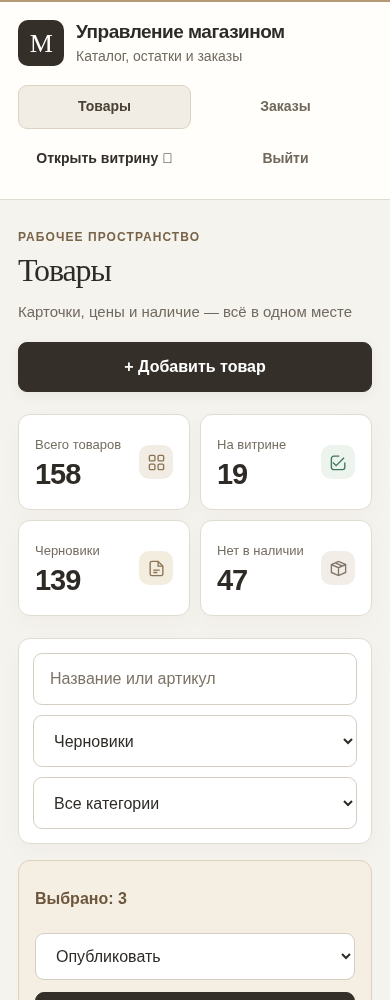
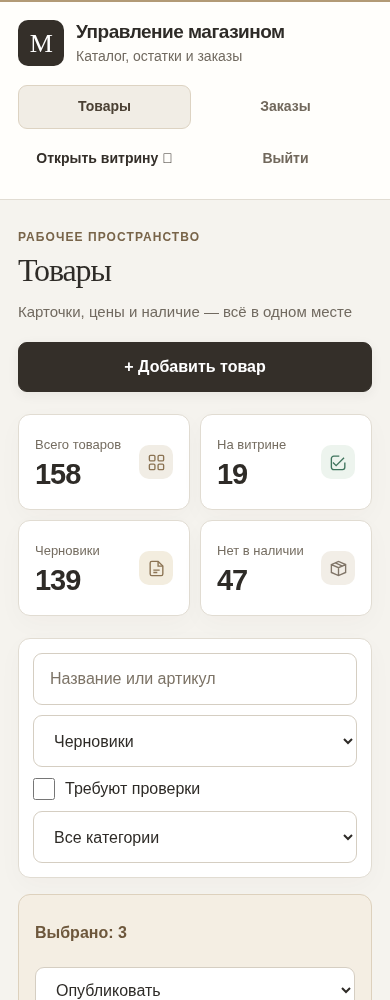
Add bulk categories and price preview, review filter and product copies

Changed region(s): [[0.0308, 0.775, 0.9538, 1.0], [0.0615, 0.775, 0.0923, 0.806]]

diff --git a/admin/app.js b/admin/app.js
@@ -2,7 +2,7 @@ const app=document.querySelector('#admin-app');
 const esc=value=>String(value??'').replace(/[&<>"']/g,c=>({'&':'&amp;','<':'&lt;','>':'&gt;','"':'&quot;',"'":'&#39;'}[c]));
 const money=value=>new Intl.NumberFormat('ru-RU',{maximumFractionDigits:2}).format(value)+' BYN';
 const clone=value=>JSON.parse(JSON.stringify(value));
-const state={selected:new Map(),visibleIds:[],bulkAction:'publish',user:null,csrf:'',catalog:null,editor:null,attrs:[],dimensions:[],search:'',status:'all',category:'all',message:'',error:'',busy:false,uploading:false,setupRequired:false,dirty:false,openVariantPhotos:new Set(),view:location.hash.startsWith('#order')?'orders':'products',ordersData:null,order:null,orderSearch:'',orderStatus:'all',orderPage:1};
+const state={selected:new Map(),visibleIds:[],review:false,bulkAction:'publish',user:null,csrf:'',catalog:null,editor:null,attrs:[],dimensions:[],search:'',status:'all',category:'all',message:'',error:'',busy:false,uploading:false,setupRequired:false,dirty:false,openVariantPhotos:new Set(),view:location.hash.startsWith('#order')?'orders':'products',ordersData:null,order:null,orderSearch:'',orderStatus:'all',orderPage:1};
 async function api(path,{method='GET',body,raw=false}={}) {
  const headers={};if(method!=='GET')headers['X-CSRF-Token']=state.csrf;
  if(body!==undefined&&!raw)headers['Content-Type']='application/json';
@@ -55,17 +55,23 @@ function renderList(){
  const products=state.catalog.products.filter(p=>{
   const matchCategory=state.category==='all'||path(p.cat).startsWith(path(state.category));
   const q=state.search.trim().toLocaleLowerCase('ru');
-  return (state.status==='all'||p.status===state.status)&&matchCategory&&(!q||[p.name,path(p.cat),...p.variants.map(v=>v.sku)].join(' ').toLocaleLowerCase('ru').includes(q));
+  return (!state.review||reviewReasons(p).length>0)&&(state.status==='all'||p.status===state.status)&&matchCategory&&(!q||[p.name,path(p.cat),...p.variants.map(v=>v.sku)].join(' ').toLocaleLowerCase('ru').includes(q));
  });
  state.visibleIds=products.map(p=>p.id);
- app.innerHTML=header()+`<main class="wrap page"><div class="heading"><div><span class="heading-eyebrow">Рабочее пространство</span><h1>Товары</h1><p class="heading-description">Карточки, цены и наличие — всё в одном месте</p></div><button class="btn" data-action="new">+ Добавить товар</button></div><section class="overview" aria-label="Сводка по товарам"><div class="metric"><div><span class="metric-label">Всего товаров</span><strong>${state.catalog.products.length}</strong></div><span class="metric-icon" aria-hidden="true"><svg viewBox="0 0 24 24" fill="none" stroke="currentColor" stroke-width="1.7"><rect x="3" y="3" width="7" height="7" rx="1.5"/><rect x="14" y="3" width="7" height="7" rx="1.5"/><rect x="3" y="14" width="7" height="7" rx="1.5"/><rect x="14" y="14" width="7" height="7" rx="1.5"/></svg></span></div><div class="metric published-metric"><div><span class="metric-label">На витрине</span><strong>${state.catalog.products.filter(p=>p.status==='published').length}</strong></div><span class="metric-icon" aria-hidden="true"><svg viewBox="0 0 24 24" fill="none" stroke="currentColor" stroke-width="1.7"><path d="m5 12 4 4L19 6"/><path d="M20 12v6a3 3 0 0 1-3 3H6a3 3 0 0 1-3-3V7a3 3 0 0 1 3-3h7"/></svg></span></div><div class="metric draft-metric"><div><span class="metric-label">Черновики</span><strong>${state.catalog.products.filter(p=>p.status==='draft').length}</strong></div><span class="metric-icon" aria-hidden="true"><svg viewBox="0 0 24 24" fill="none" stroke="currentColor" stroke-width="1.7"><path d="M14 3H6a2 2 0 0 0-2 2v14a2 2 0 0 0 2 2h12a2 2 0 0 0 2-2V9Z"/><path d="M14 3v6h6M8 14h8M8 17h5"/></svg></span></div><div class="metric stock-metric"><div><span class="metric-label">Нет в наличии</span><strong>${state.catalog.products.filter(p=>p.variants.every(v=>Math.max(0,v.stock-(v.reserved||0))===0)).length}</strong></div><span class="metric-icon" aria-hidden="true"><svg viewBox="0 0 24 24" fill="none" stroke="currentColor" stroke-width="1.7"><path d="m3 7 9-4 9 4v10l-9 4-9-4ZM3 7l9 4 9-4M12 11v10"/><path d="m8 5 9 4"/></svg></span></div></section><div id="messages">${messageHTML()}</div><div class="toolbar"><input type="search" id="search" aria-label="Поиск товаров" placeholder="Название или артикул" value="${esc(state.search)}"><select id="status-filter" aria-label="Статус товара"><option value="all">Все статусы</option><option value="draft" ${state.status==='draft'?'selected':''}>Черновики</option><option value="published" ${state.status==='published'?'selected':''}>На витрине</option></select><select id="category-filter" aria-label="Категория товара">${categoryOptions(state.category,true)}</select></div><div class="bulk-toolbar"><span aria-live="polite">Выбрано: ${state.selected.size}</span><select id="bulk-action" aria-label="Действие с выбранными товарами"><option value="publish" ${state.bulkAction==='publish'?'selected':''}>Опубликовать</option><option value="draft" ${state.bulkAction==='draft'?'selected':''}>Вернуть в черновики</option><option value="delete" ${state.bulkAction==='delete'?'selected':''}>Удалить</option></select><button class="btn small" data-action="bulk-apply" ${!state.selected.size||state.busy?'disabled':''}>Применить к выбранным</button><button class="btn plain small" data-action="clear-selection" ${!state.selected.size||state.busy?'disabled':''}>Снять выбор</button><span class="hint">При обновлении списка, поиске или смене фильтров выбор сбрасывается.</span></div><section class="panel table-scroll">${products.length?`<table class="list product-list"><thead><tr><th class="selection-cell"><input type="checkbox" id="select-all-products" aria-label="Выбрать все найденные товары" ${products.length&&products.every(p=>state.selected.has(p.id))?'checked':''} ${state.busy?'disabled':''}></th><th>Товар</th><th>Категория</th><th>Цена</th><th>Остаток</th><th>Статус</th><th></th></tr></thead><tbody>${products.map(p=>{
+ app.innerHTML=header()+`<main class="wrap page"><div class="heading"><div><span class="heading-eyebrow">Рабочее пространство</span><h1>Товары</h1><p class="heading-description">Карточки, цены и наличие — всё в одном месте</p></div><button class="btn" data-action="new">+ Добавить товар</button></div><section class="overview" aria-label="Сводка по товарам"><div class="metric"><div><span class="metric-label">Всего товаров</span><strong>${state.catalog.products.length}</strong></div><span class="metric-icon" aria-hidden="true"><svg viewBox="0 0 24 24" fill="none" stroke="currentColor" stroke-width="1.7"><rect x="3" y="3" width="7" height="7" rx="1.5"/><rect x="14" y="3" width="7" height="7" rx="1.5"/><rect x="3" y="14" width="7" height="7" rx="1.5"/><rect x="14" y="14" width="7" height="7" rx="1.5"/></svg></span></div><div class="metric published-metric"><div><span class="metric-label">На витрине</span><strong>${state.catalog.products.filter(p=>p.status==='published').length}</strong></div><span class="metric-icon" aria-hidden="true"><svg viewBox="0 0 24 24" fill="none" stroke="currentColor" stroke-width="1.7"><path d="m5 12 4 4L19 6"/><path d="M20 12v6a3 3 0 0 1-3 3H6a3 3 0 0 1-3-3V7a3 3 0 0 1 3-3h7"/></svg></span></div><div class="metric draft-metric"><div><span class="metric-label">Черновики</span><strong>${state.catalog.products.filter(p=>p.status==='draft').length}</strong></div><span class="metric-icon" aria-hidden="true"><svg viewBox="0 0 24 24" fill="none" stroke="currentColor" stroke-width="1.7"><path d="M14 3H6a2 2 0 0 0-2 2v14a2 2 0 0 0 2 2h12a2 2 0 0 0 2-2V9Z"/><path d="M14 3v6h6M8 14h8M8 17h5"/></svg></span></div><div class="metric stock-metric"><div><span class="metric-label">Нет в наличии</span><strong>${state.catalog.products.filter(p=>p.variants.every(v=>Math.max(0,v.stock-(v.reserved||0))===0)).length}</strong></div><span class="metric-icon" aria-hidden="true"><svg viewBox="0 0 24 24" fill="none" stroke="currentColor" stroke-width="1.7"><path d="m3 7 9-4 9 4v10l-9 4-9-4ZM3 7l9 4 9-4M12 11v10"/><path d="m8 5 9 4"/></svg></span></div></section><div id="messages">${messageHTML()}</div><div class="toolbar"><input type="search" id="search" aria-label="Поиск товаров" placeholder="Название или артикул" value="${esc(state.search)}"><select id="status-filter" aria-label="Статус товара"><option value="all">Все статусы</option><option value="draft" ${state.status==='draft'?'selected':''}>Черновики</option><option value="published" ${state.status==='published'?'selected':''}>На витрине</option></select><label><input type="checkbox" id="review-filter" ${state.review?'checked':''}> Требуют проверки</label><select id="category-filter" aria-label="Категория товара">${categoryOptions(state.category,true)}</select></div><div class="bulk-toolbar"><span aria-live="polite">Выбрано: ${state.selected.size}</span><select id="bulk-action" aria-label="Действие с выбранными товарами"><option value="publish" ${state.bulkAction==='publish'?'selected':''}>Опубликовать</option><option value="draft" ${state.bulkAction==='draft'?'selected':''}>Вернуть в черновики</option><option value="category" ${state.bulkAction==='category'?'selected':''}>Сменить категорию</option><option value="price" ${state.bulkAction==='price'?'selected':''}>Изменить цены</option><option value="delete" ${state.bulkAction==='delete'?'selected':''}>Удалить</option></select><select id="bulk-category" ${state.bulkAction!=='category'?'hidden':''} aria-label="Новая категория">${categoryOptions('')}</select><select id="price-mode" ${state.bulkAction!=='price'?'hidden':''} aria-label="Способ изменения цены"><option value="amount">На сумму, BYN</option><option value="percent">На процент</option></select><input id="price-amount" ${state.bulkAction!=='price'?'hidden':''} type="number" step="0.01" aria-label="Изменение цены" placeholder="Например: -10 или 5"><button class="btn small" data-action="bulk-apply" ${!state.selected.size||state.busy?'disabled':''}>Применить к выбранным</button><button class="btn plain small" data-action="clear-selection" ${!state.selected.size||state.busy?'disabled':''}>Снять выбор</button><span class="hint">При обновлении списка, поиске или смене фильтров выбор сбрасывается.</span></div><section class="panel table-scroll">${products.length?`<table class="list product-list"><thead><tr><th class="selection-cell"><input type="checkbox" id="select-all-products" aria-label="Выбрать все найденные товары" ${products.length&&products.every(p=>state.selected.has(p.id))?'checked':''} ${state.busy?'disabled':''}></th><th>Товар</th><th>Категория</th><th>Цена</th><th>Остаток</th><th>Статус</th><th></th></tr></thead><tbody>${products.map(p=>{
  const image=p.images?.[0]||p.variants.flatMap(v=>v.images||[])[0];const prices=p.variants.map(v=>v.price);
- return `<tr><td class="selection-cell"><input type="checkbox" data-select-product="${p.id}" aria-label="Выбрать ${esc(p.name)}" ${state.selected.has(p.id)?'checked':''} ${state.busy?'disabled':''}></td><td><div class="item-name">${image?`<img class="thumb" src="${esc(image)}" alt="">`:'<span class="thumb placeholder" aria-hidden="true">▧</span>'}<div><strong>${esc(p.name)}</strong><span class="hint">${p.variants.length} SKU</span></div></div></td><td>${esc(path(p.cat))}</td><td>${new Set(prices).size>1?'от ':''}${money(Math.min(...prices))}</td><td>${p.variants.reduce((n,v)=>n+v.stock,0)} шт.<p class="hint">Резерв: ${p.variants.reduce((n,v)=>n+(v.reserved||0),0)}</p></td><td><span class="badge ${p.status}">${p.status==='published'?'На витрине':'Черновик'}</span></td><td><button class="btn secondary small" data-edit="${p.id}">Редактировать</button> <button class="btn danger small" data-delete="${p.id}">Удалить</button></td></tr>`;
+ return `<tr><td class="selection-cell"><input type="checkbox" data-select-product="${p.id}" aria-label="Выбрать ${esc(p.name)}" ${state.selected.has(p.id)?'checked':''} ${state.busy?'disabled':''}></td><td><div class="item-name">${image?`<img class="thumb" src="${esc(image)}" alt="">`:'<span class="thumb placeholder" aria-hidden="true">▧</span>'}<div><strong>${esc(p.name)}</strong><span class="hint">${p.variants.length} SKU</span>${reviewReasons(p).length?`<p class="hint">${esc(reviewReasons(p).join(' · '))}</p>`:''}</div></div></td><td>${esc(path(p.cat))}</td><td>${new Set(prices).size>1?'от ':''}${money(Math.min(...prices))}</td><td>${p.variants.reduce((n,v)=>n+v.stock,0)} шт.<p class="hint">Резерв: ${p.variants.reduce((n,v)=>n+(v.reserved||0),0)}</p></td><td><span class="badge ${p.status}">${p.status==='published'?'На витрине':'Черновик'}</span></td><td><button class="btn secondary small" data-copy="${p.id}">Копировать</button><button class="btn secondary small" data-edit="${p.id}">Редактировать</button> <button class="btn danger small" data-delete="${p.id}">Удалить</button></td></tr>`;
  }).join('')}</tbody></table>`:'<div class="empty"><h2>Товары не найдены</h2><p class="muted">Измените условия поиска или добавьте новый товар.</p></div>'}</section></main>`;
  const allBox=document.querySelector('#select-all-products');if(allBox)allBox.indeterminate=products.some(p=>state.selected.has(p.id))&&!products.every(p=>state.selected.has(p.id));
- document.querySelectorAll('#search,#status-filter,#category-filter,#bulk-action').forEach(input=>input.disabled=state.busy);
+ document.querySelectorAll('#search,#status-filter,#category-filter,#bulk-action,#bulk-category,#price-mode,#price-amount,#review-filter').forEach(input=>input.disabled=state.busy);
 }
 function emptyVariant(){return {sku:'SKU-'+crypto.randomUUID().slice(0,8).toUpperCase(),price:0,old:0,stock:0,color:'#cad6e8',options:Object.fromEntries(state.dimensions.map(key=>[key,''])),images:[]}}
+function previewPrices(lines){return new Promise(resolve=>{
+ const dialog=document.createElement('dialog');dialog.className='price-preview';dialog.setAttribute('aria-labelledby','price-preview-title');
+ dialog.innerHTML='<h2 id="price-preview-title">Предварительный просмотр цен</h2><p>Проверьте изменения всех выбранных вариантов.</p><div class="price-preview-list">'+lines.map(line=>'<p>'+esc(line)+'</p>').join('')+'</div><div class="actions"><button class="btn secondary" data-preview-cancel>Отмена</button><button class="btn" data-preview-save>Сохранить новые цены</button></div>';
+ const finish=value=>{dialog.close();dialog.remove();resolve(value)};dialog.querySelector('[data-preview-cancel]').onclick=()=>finish(false);dialog.querySelector('[data-preview-save]').onclick=()=>finish(true);dialog.oncancel=e=>{e.preventDefault();finish(false)};document.body.append(dialog);dialog.showModal();
+})}
+function reviewReasons(p){return [!(p.images?.length||p.variants.some(v=>v.images?.length))?'Нет фотографий':'',p.variants.some(v=>!v.price||v.price<=0)?'Нет цены':'',!p.summary?.trim()?'Нет описания':''].filter(Boolean)}
 function startEditor(product){
  state.error='';state.message='';state.dirty=!product;state.openVariantPhotos=new Set();
  state.editor=product?clone(product):{name:'',cat:'',summary:'',attrs:{},images:[],status:'draft',variants:[]};
@@ -119,7 +125,8 @@ app.addEventListener('change',async e=>{
  const d=e.target.dataset;
  if(d.selectProduct!==undefined){if(state.busy)return;const p=state.catalog.products.find(p=>p.id===d.selectProduct);if(p){if(e.target.checked)state.selected.set(p.id,p.version);else state.selected.delete(p.id)}renderList();document.querySelector('[data-select-product="'+d.selectProduct+'"]')?.focus();return}
  if(e.target.id==='select-all-products'){if(state.busy)return;for(const id of state.visibleIds){const p=state.catalog.products.find(p=>p.id===id);if(e.target.checked)state.selected.set(id,p.version);else state.selected.delete(id)}renderList();document.querySelector('#select-all-products')?.focus();return}
- if(e.target.id==='bulk-action'){state.bulkAction=e.target.value;return}
+ if(e.target.id==='review-filter'){state.review=e.target.checked;state.selected.clear();renderList();return}
+ if(e.target.id==='bulk-action'){state.bulkAction=e.target.value;renderList();return}
  if(e.target.id==='status-filter'){state.status=e.target.value;state.selected.clear();renderList()}
  if(e.target.id==='category-filter'){state.category=e.target.value;state.selected.clear();renderList()}
  if(e.target.id==='order-status-filter'){state.orderStatus=e.target.value;state.orderPage=1;try{await loadOrders();render()}catch(error){setError(error)}}
@@ -163,12 +170,26 @@ app.addEventListener('click',async e=>{
   if(d.action==='clear-selection'){state.selected.clear();renderList();return}
   if(d.action==='bulk-apply'){
    const action=state.bulkAction,products=[...state.selected].map(([id,version])=>({id,version}));if(!products.length)return;
-   const verb={publish:'Опубликовать',draft:'Вернуть в черновики',delete:'Удалить'}[action];
+   const extra={};
+   if(action==='category')extra.category=document.querySelector('#bulk-category').value;
+   if(action==='price'){
+    extra.mode=document.querySelector('#price-mode').value;const raw=document.querySelector('#price-amount').value;extra.amount=Number(raw);
+    if(!raw||!Number.isFinite(extra.amount))throw Error('Введите изменение цены.');
+    const lines=[];for(const item of products){const p=state.catalog.products.find(p=>p.id===item.id);for(const v of p.variants){const next=Math.round((extra.mode==='percent'?v.price*(1+extra.amount/100):v.price+extra.amount)*100)/100;if(next<=0||!Number.isFinite(next))throw Error('Новая цена должна быть больше нуля.');lines.push(p.name+' / '+v.sku+': '+money(v.price)+' → '+money(next))}}
+    if(!await previewPrices(lines))return;
+   }
+   const verb={category:'Сменить категорию у',price:'Изменить цены у',publish:'Опубликовать',draft:'Вернуть в черновики',delete:'Удалить'}[action];
    if(!confirm(verb+' выбранные товары ('+products.length+')?'+(action==='delete'?' Повторный импорт Emall не восстановит удалённые товары.':'')))return;
    state.busy=true;renderList();
-   try{const result=await api('/api/admin/products/bulk',{method:'POST',body:{action,products}});state.selected.clear();state.message='Обработано товаров: '+result.selected+'. Изменено: '+result.changed+'.';state.error='';await loadCatalog()}
+   try{const result=await api('/api/admin/products/bulk',{method:'POST',body:{action,products,...extra}});state.selected.clear();state.message='Обработано товаров: '+result.selected+'. Изменено: '+result.changed+'.';state.error='';await loadCatalog()}
    finally{state.busy=false;render()}
    return;
+  }
+  if(d.copy){
+   const original=state.catalog.products.find(p=>p.id===d.copy);if(!original)return;
+   const copy=clone(original);delete copy.id;delete copy.version;copy.name=(copy.name+' — копия').slice(0,200);copy.status='draft';
+   copy.variants=copy.variants.map(v=>{const result={...v,sku:'COPY-'+crypto.randomUUID().replaceAll('-','').slice(0,24),stock:0};delete result.sourceManaged;delete result.externalSku;delete result.reserved;delete result.available;return result});
+   startEditor(copy);state.dirty=true;state.message='Копия: новые артикулы, нулевые остатки. Сохраните черновик после проверки.';renderEditor();return;
   }
   if(d.action==='new')return startEditor();
   if(d.edit)return startEditor(state.catalog.products.find(p=>p.id===d.edit));

diff --git a/admin/style.css b/admin/style.css
@@ -248,3 +248,14 @@ p { line-height: 1.7; }
 @media (prefers-reduced-motion: reduce) {
   *, *:before, *:after { scroll-behavior: auto !important; transition: none !important; }
 }
+
+.bulk-toolbar [hidden] { display: none; }
+.bulk-toolbar input[type=number] { width: 210px; }
+.toolbar input[type=checkbox] { width: 22px; min-height: 22px; accent-color: var(--blue); }
+.toolbar label:has(#review-filter) { display: inline-flex; align-items: center; gap: 10px; white-space: nowrap; }
+.toolbar #review-filter { flex: 0 0 22px; width: 22px; min-width: 22px; height: 22px; margin: 0; }
+.price-preview { width: min(850px, calc(100% - 32px)); max-height: 90vh; padding: 28px; border: 1px solid var(--line); border-radius: 14px; color: var(--ink); background: var(--surface); }
+.price-preview::backdrop { background: #201d1980; }
+.price-preview-list { max-height: 52vh; overflow: auto; padding: 0 14px; border: 1px solid var(--line); border-radius: 8px; overflow-wrap: anywhere; }
+.price-preview-list p { padding: 10px 0; margin: 0; border-bottom: 1px solid var(--line); }
+.price-preview .actions { margin-top: 22px; }

diff --git a/README.md b/README.md
@@ -219,3 +219,11 @@ npm run test:ui
 [Главная на компьютере](preview_design_home_desktop.png) · [Каталог на телефоне](preview_design_catalog_mobile.png) · [Админка](preview_design_admin_desktop.png) · [Редактор товара](preview_design_editor_desktop.png).
 
 `node scripts/capture-design.cjs` проверяет главную, каталог, карточку, корзину, оформление заказа и административные страницы на ширинах 320, 390, 768, 1024 и 1440 px. Снимки создаются из временной базы с импортированными товарами, рабочие данные не меняются. Пакет массового импорта используется при наличии `data/emall-mass/`; для витрины достаточно пяти исходных карточек.
+
+## Массовое управление ассортиментом
+
+В админке отметьте товары флажками и выберите действие. «Сменить категорию» переносит выбранные карточки в указанный раздел. «Изменить цены» меняет цены всех SKU выбранных товаров: положительное значение увеличивает цену, отрицательное уменьшает; можно выбрать сумму в BYN или процент. Перед сохранением показываются прежние и новые цены каждого SKU. Цена после округления должна быть больше нуля. Старая зачёркнутая цена сохраняется только когда она выше новой. Изменения выполняются одной транзакцией с проверкой версии каждой карточки.
+
+Флажок «Требуют проверки» оставляет товары без фотографий, без описания или с незаполненной ценой. Причины указаны рядом с названием. Его можно сочетать с поиском, категорией и статусом.
+
+«Копировать» открывает новую карточку с названием исходного товара и пометкой «копия», фотографиями, описанием и вариантами. У копии новые артикулы, нулевые остатки и статус черновика; связи с Emall и резервы не переносятся. Проверьте поля и нажмите «Сохранить черновик». Исходная карточка не меняется.
